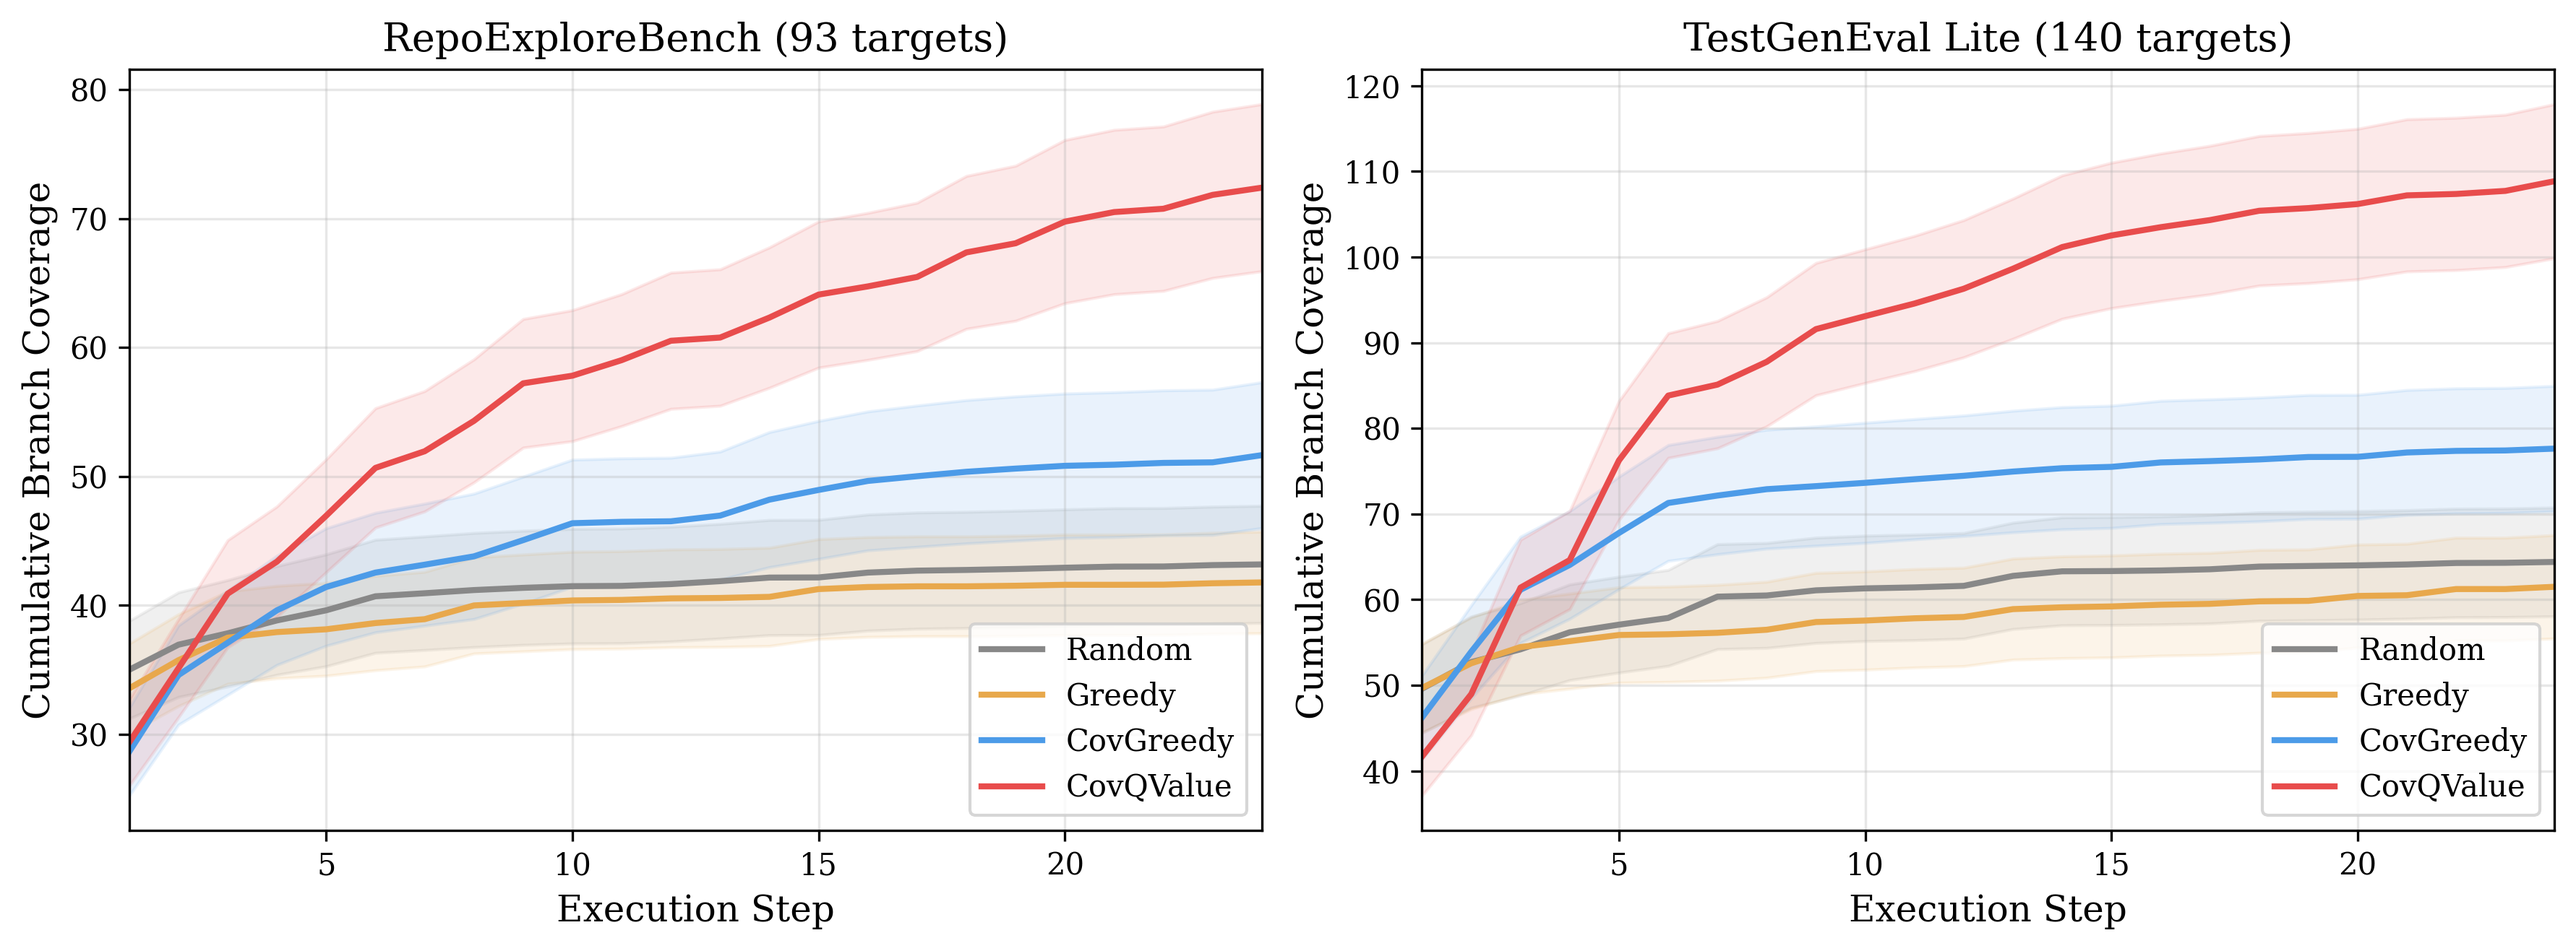
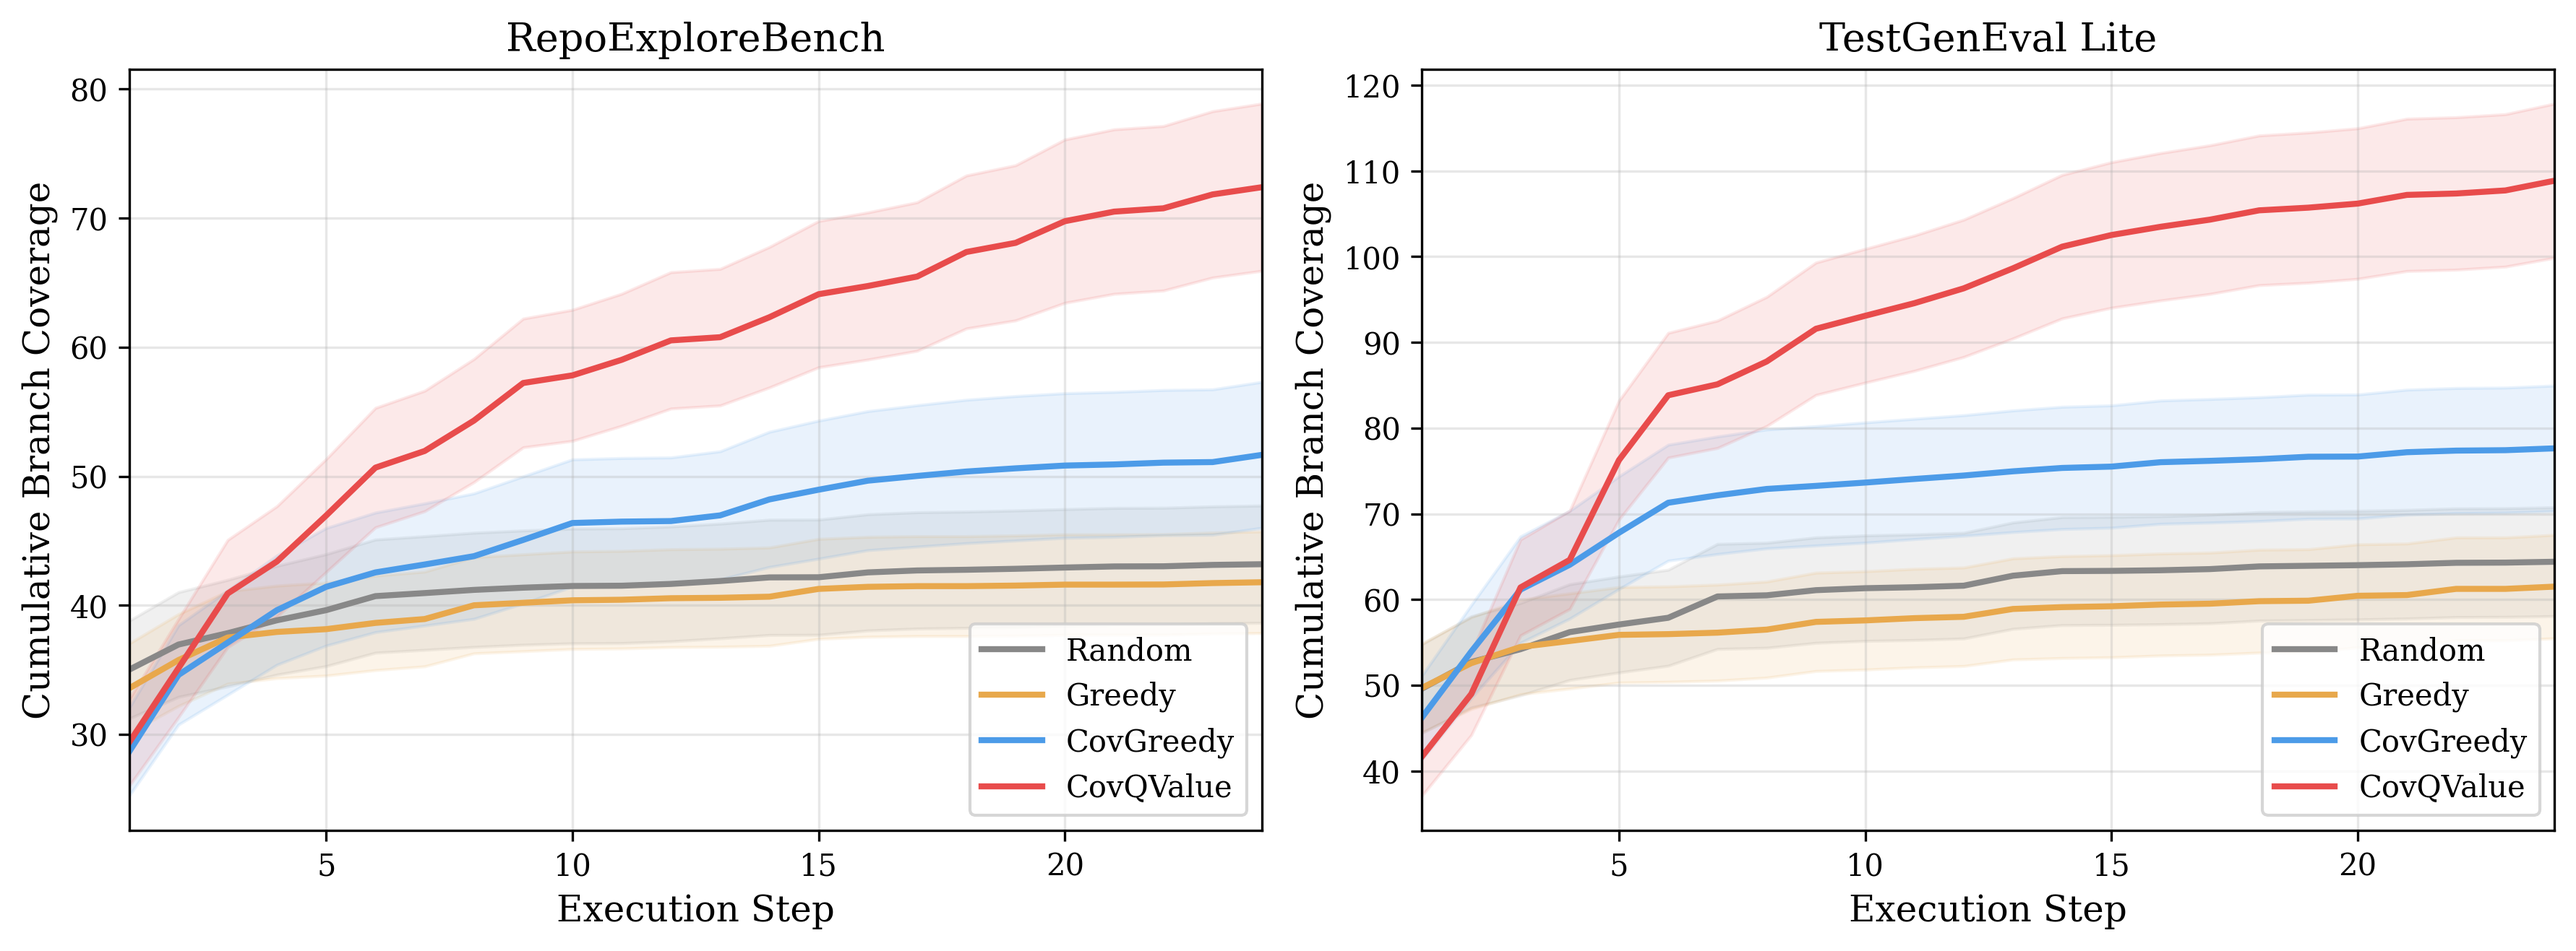
Remove target counts from fig1 titles

diff --git a/plots/paper_figures.py b/plots/paper_figures.py
@@ -72,8 +72,8 @@ def fig_exploration_curves(data):
     fig, axes = plt.subplots(1, 2, figsize=(12, 4.5))
 
     bench_labels = {
-        "repo_explore_bench": "RepoExploreBench (93 targets)",
-        "testgeneval": "TestGenEval Lite (140 targets)",
+        "repo_explore_bench": "RepoExploreBench",
+        "testgeneval": "TestGenEval Lite",
     }
 
     for ax, bench in zip(axes, ["repo_explore_bench", "testgeneval"]):
